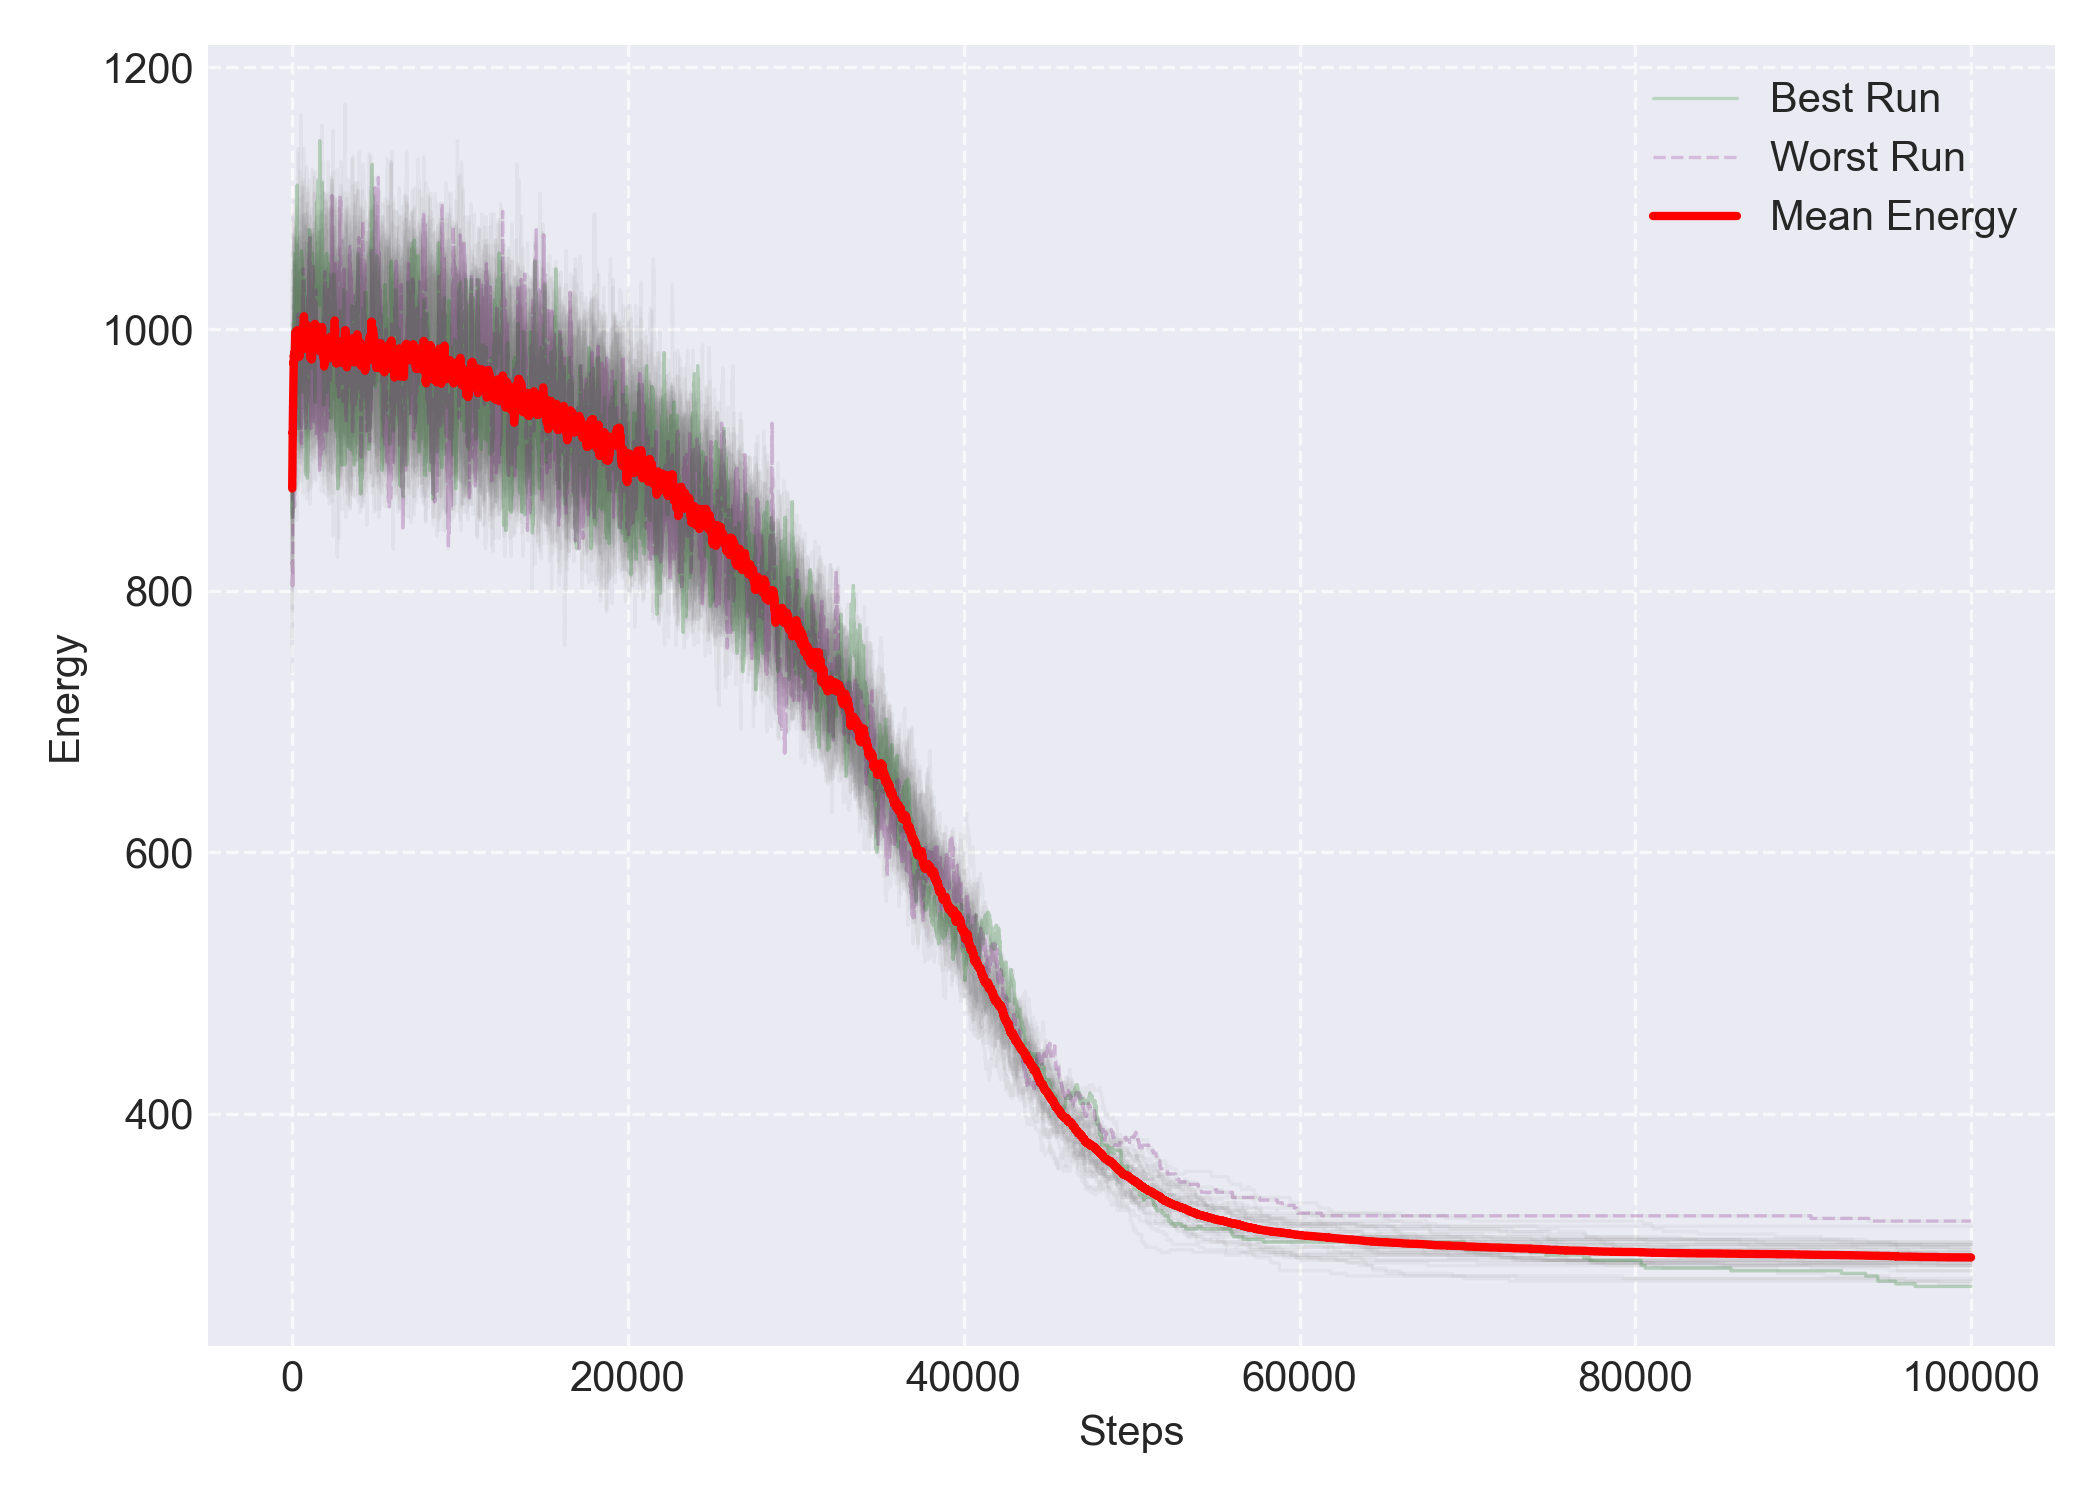
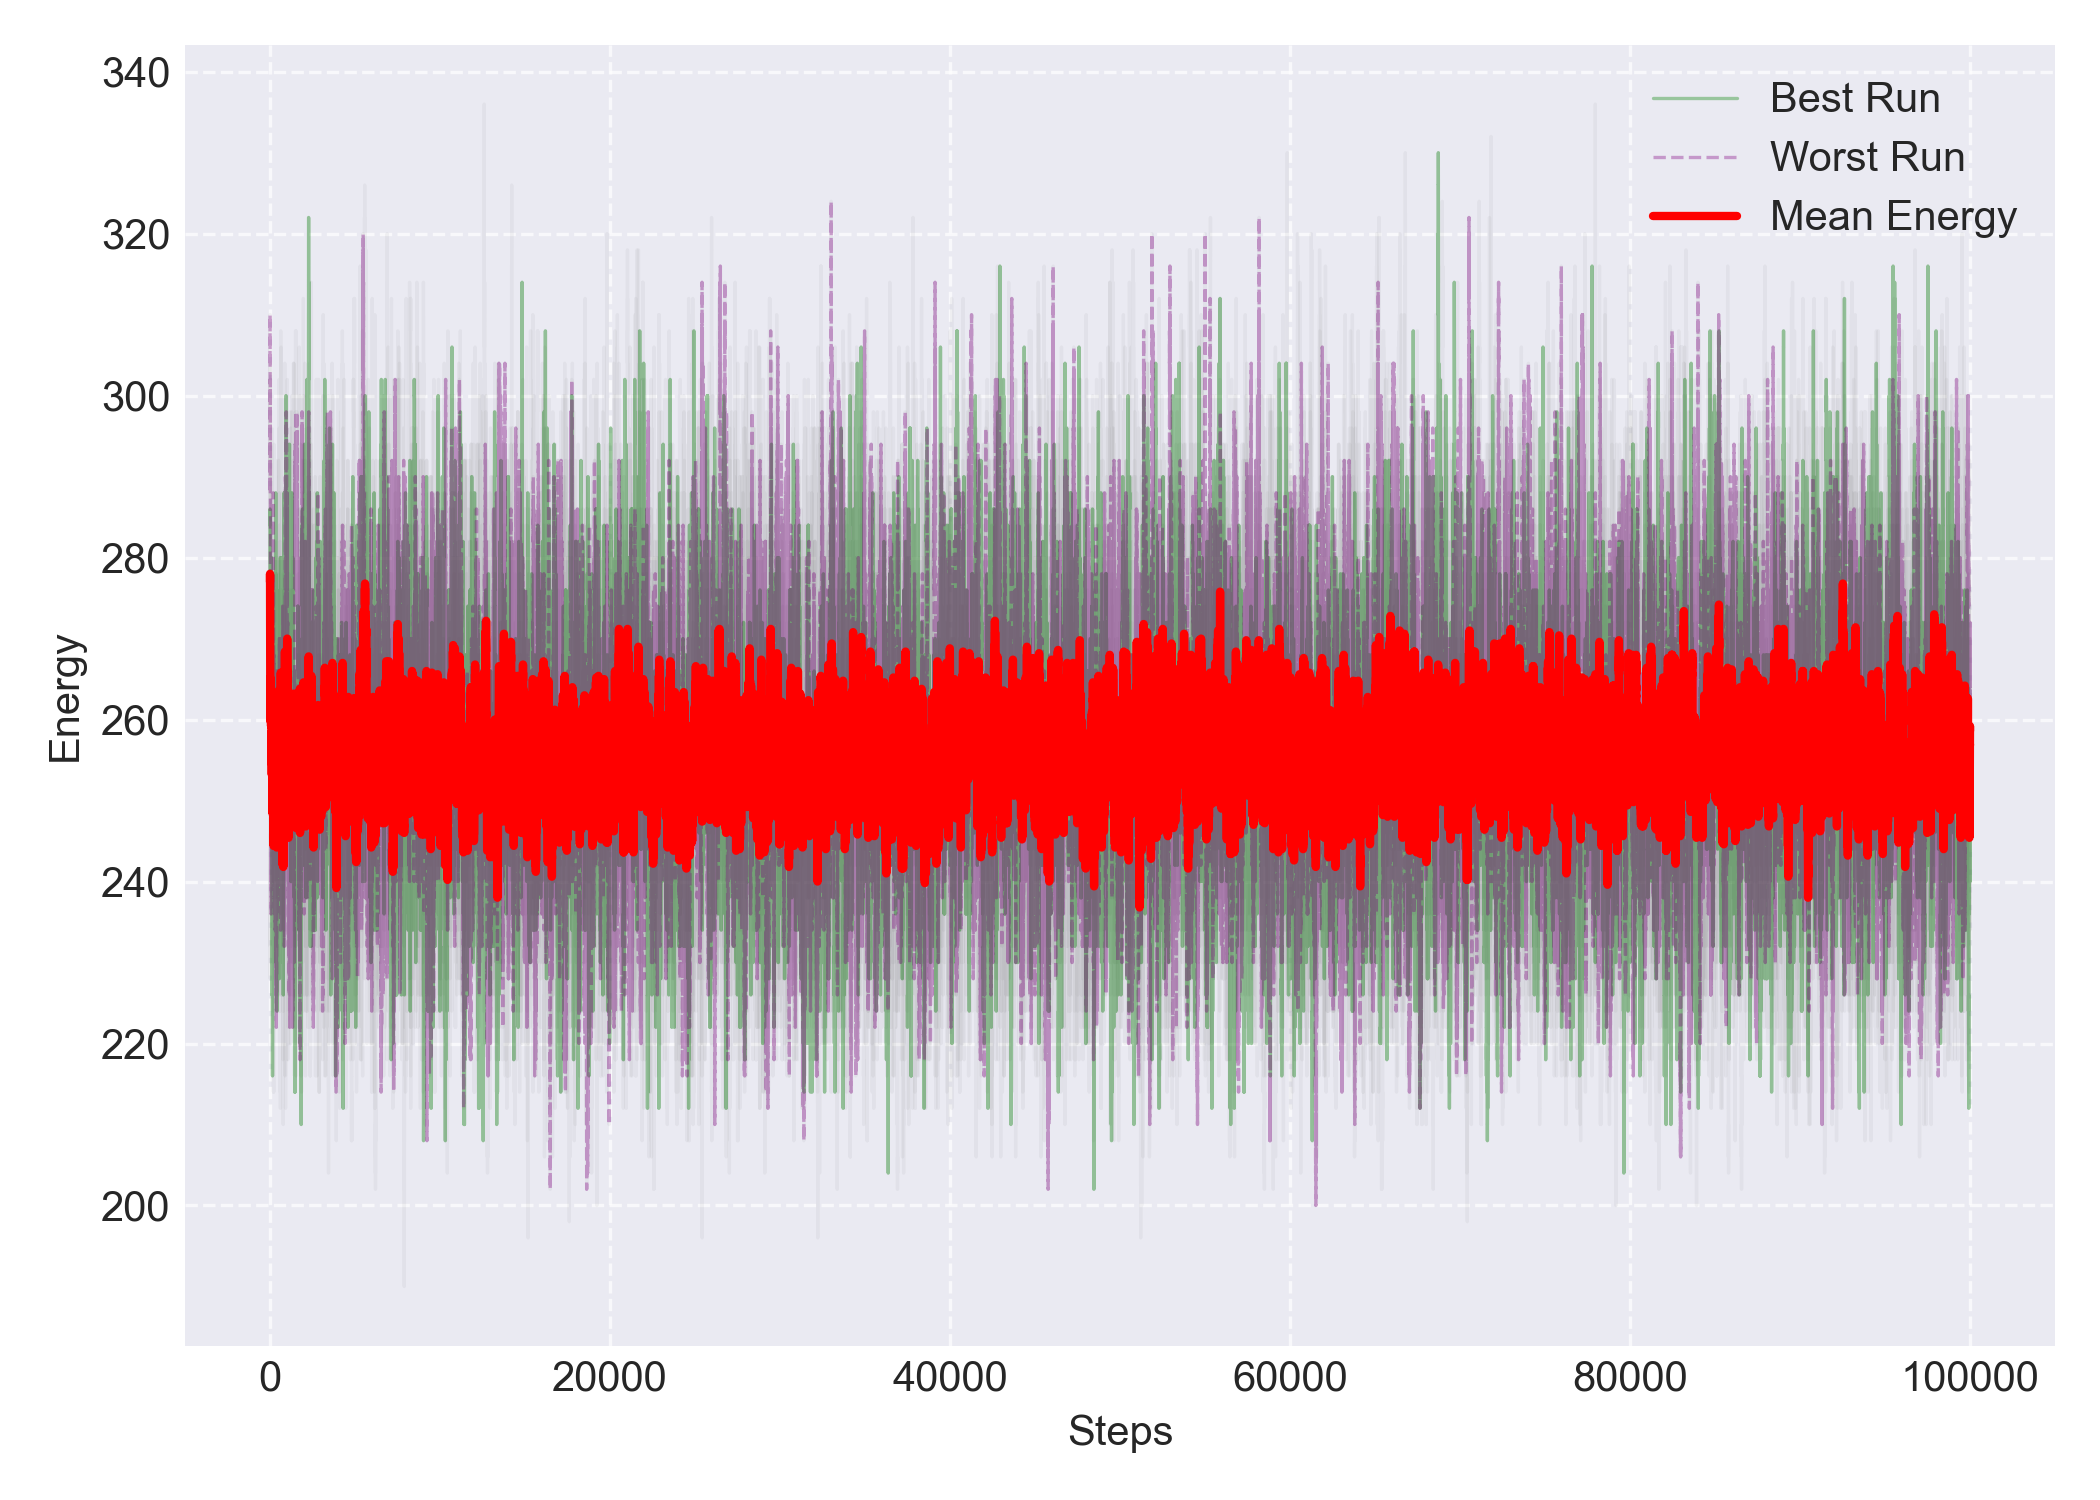
Helpers for plot without SA

diff --git a/utils/plot_utils.py b/utils/plot_utils.py
@@ -6,6 +6,11 @@ from mpl_toolkits.mplot3d import Axes3D
 from matplotlib.font_manager import FontProperties
 from matplotlib.text import TextPath
 
+import concurrent.futures
+import os
+from main import run_single_simulation
+
+
 
 def plot_results(
     N: int,
@@ -286,3 +291,150 @@ def plot_results(
 
         plt.tight_layout()
         plt.show()
+
+
+def run_batch(
+    N: int,
+    schedule_type: str,
+    n_simulations: int,
+    base_seed: int,
+    max_workers: int | None,
+    **kwargs,
+    ) -> list[dict]:
+    """
+    Run n_simulations in parallel for a given schedule_type and return histories.
+    kwargs are forwarded to main().
+    """
+    if max_workers is None:
+        max_workers = os.cpu_count()
+
+    simulations_configs = []
+    for i in range(n_simulations):
+        should_be_watched = (i % max_workers == 0)
+        cfg = {
+            "N": N,
+            "rng_seed": base_seed + i,
+            "schedule_type": schedule_type,
+            **kwargs,
+            "is_watched": should_be_watched,
+        }
+                # noisy_p etc can be in kwargs
+        simulations_configs.append(cfg)
+
+    results = []
+    with concurrent.futures.ProcessPoolExecutor(max_workers=max_workers) as executor:
+        futures = {
+            executor.submit(run_single_simulation, cfg): cfg
+            for cfg in simulations_configs
+        }
+        for future in concurrent.futures.as_completed(futures):
+            results.append(future.result())
+
+    return results
+
+import numpy as np
+import matplotlib.pyplot as plt
+
+
+def _aggregate_time_series(results, key="energy"):
+    """
+    Given a list of result dicts, aggregate a time series (e.g. energy)
+    across runs: returns (steps, mean, std).
+
+    We truncate all runs to the minimum common length to be safe.
+    """
+    # Keep only successful runs
+    clean = [r for r in results if isinstance(r, dict) and key in r and "error" not in r]
+    if not clean:
+        raise ValueError(f"No valid runs found with key '{key}'.")
+
+    lengths = [len(r[key]) for r in clean]
+    T = min(lengths)
+
+    data = np.stack([np.array(r[key][:T], dtype=float) for r in clean], axis=0)
+    mean = data.mean(axis=0)
+    std = data.std(axis=0)
+
+    steps = np.arange(T)
+    return steps, mean, std
+
+
+def plot_sa_vs_constant(
+    N: int,
+    sa_results: list[dict],
+    const_results: list[dict],
+    mode_init: str,
+    state_type: str,
+    noisy_p: float | None = None,
+    save_path: str | None = None,
+) -> None:
+    """
+    Compare simulated annealing vs constant-temperature MCMC for fixed N.
+
+    Parameters
+    ----------
+    N : int
+        Board size.
+    sa_results : list of dict
+        Histories from runs using a cooling schedule (e.g. GeometricSchedule).
+    const_results : list of dict
+        Histories from runs using a constant-temperature schedule.
+    mode_init : str
+        Initialization mode (for title / annotation).
+    state_type : str
+        'stack' or 'constraint' (for title / annotation).
+    noisy_p : float or None
+        Noise parameter if using noisy_latin_square (for title / annotation).
+    save_path : str or None
+        If provided, the figure is saved to this path; otherwise plt.show() is called.
+    """
+    plt.style.use("seaborn-v0_8-darkgrid")
+
+    # --- Aggregate energies
+    steps_sa, mean_sa, std_sa = _aggregate_time_series(sa_results, key="energy")
+    steps_ct, mean_ct, std_ct = _aggregate_time_series(const_results, key="energy")
+
+    # Make sure x-axes are aligned by truncating to common length
+    T = min(len(steps_sa), len(steps_ct))
+    steps = steps_sa[:T]
+    mean_sa, std_sa = mean_sa[:T], std_sa[:T]
+    mean_ct, std_ct = mean_ct[:T], std_ct[:T]
+
+    # --- Plot
+    fig, ax = plt.subplots(figsize=(8, 5))
+
+    ax.plot(steps, mean_sa, label="Simulated annealing (mean)", linewidth=2)
+    ax.fill_between(
+        steps,
+        mean_sa - std_sa,
+        mean_sa + std_sa,
+        alpha=0.25,
+        label="SA ±1 std",
+    )
+
+    ax.plot(steps, mean_ct, label="Constant T (mean)", linewidth=2, linestyle="--")
+    ax.fill_between(
+        steps,
+        mean_ct - std_ct,
+        mean_ct + std_ct,
+        alpha=0.25,
+        label="Const. T ±1 std",
+    )
+
+    ax.set_xlabel("Steps")
+    ax.set_ylabel("Energy")
+
+    subtitle = f"N={N}, init={mode_init}, state_type={state_type}"
+    if mode_init == "noisy_latin_square" and noisy_p is not None:
+        subtitle += f", p={noisy_p}"
+    ax.set_title(f"Energy vs steps with and without simulated annealing\n{subtitle}")
+
+    ax.legend(loc="upper right")
+    fig.tight_layout()
+
+    if save_path is not None:
+        fig.savefig(save_path, dpi=300, bbox_inches="tight")
+        plt.close(fig)
+    else:
+        plt.show()
+

diff --git a/main.py b/main.py
@@ -5,7 +5,7 @@ import argparse
 import concurrent.futures
 import time
 import matplotlib.pyplot as plt
-from utils.plot_utils import plot_results
+from utils.plot_utils import plot_results, run_batch, plot_sa_vs_constant
 from state_space.states import StackState, ConstraintStackState
 from state_space.geometry import Board, LineIndex
 from energy.energy_model import EnergyModel
@@ -261,3 +261,60 @@ if __name__ == "__main__":
         noisy_p=args.noisy_p,
         plot_cube=False,
     )
+def experiment_sa_vs_constant(
+    N: int,
+    n_simulations: int,
+    base_seed: int,
+    max_workers: int | None,
+    T_initial: float,
+    alpha: float,
+    max_steps: int,
+    mode_init: str,
+    state_type: str,
+    noisy_p: float = 0.2,
+):
+    common_kwargs = dict(
+        number_of_steps=max_steps,
+        T_initial=T_initial,
+        alpha=alpha,
+        max_steps=max_steps,
+        mode_init=mode_init,
+        state=StackState if state_type == "stack" else ConstraintStackState,
+        verbose_every=1000000,
+        detailed_stats=False,
+        noisy_p=noisy_p,
+    )
+
+    # With simulated annealing
+    sa_results = run_batch(
+        N=N,
+        schedule_type="geometric",
+        n_simulations=n_simulations,
+        base_seed=base_seed,
+        max_workers=max_workers,
+        **common_kwargs,
+    )
+
+    # Without simulated annealing (constant T)
+    const_results = run_batch(
+        N=N,
+        schedule_type="constant",
+        n_simulations=n_simulations,
+        base_seed=base_seed + 10,  # different seeds if you like
+        max_workers=max_workers,
+        **common_kwargs,
+    )
+
+    # Now either:
+    #  - call a modified plot_results that can take two groups, or
+    #  - write a small dedicated plotting function:
+    plot_sa_vs_constant(
+    N=N,
+    sa_results=sa_results,
+    const_results=const_results,
+    mode_init=mode_init,
+    state_type=state_type,
+    noisy_p=noisy_p,
+    save_path="plots/energy_sa_vs_constant_N12.png",  
+)
+
